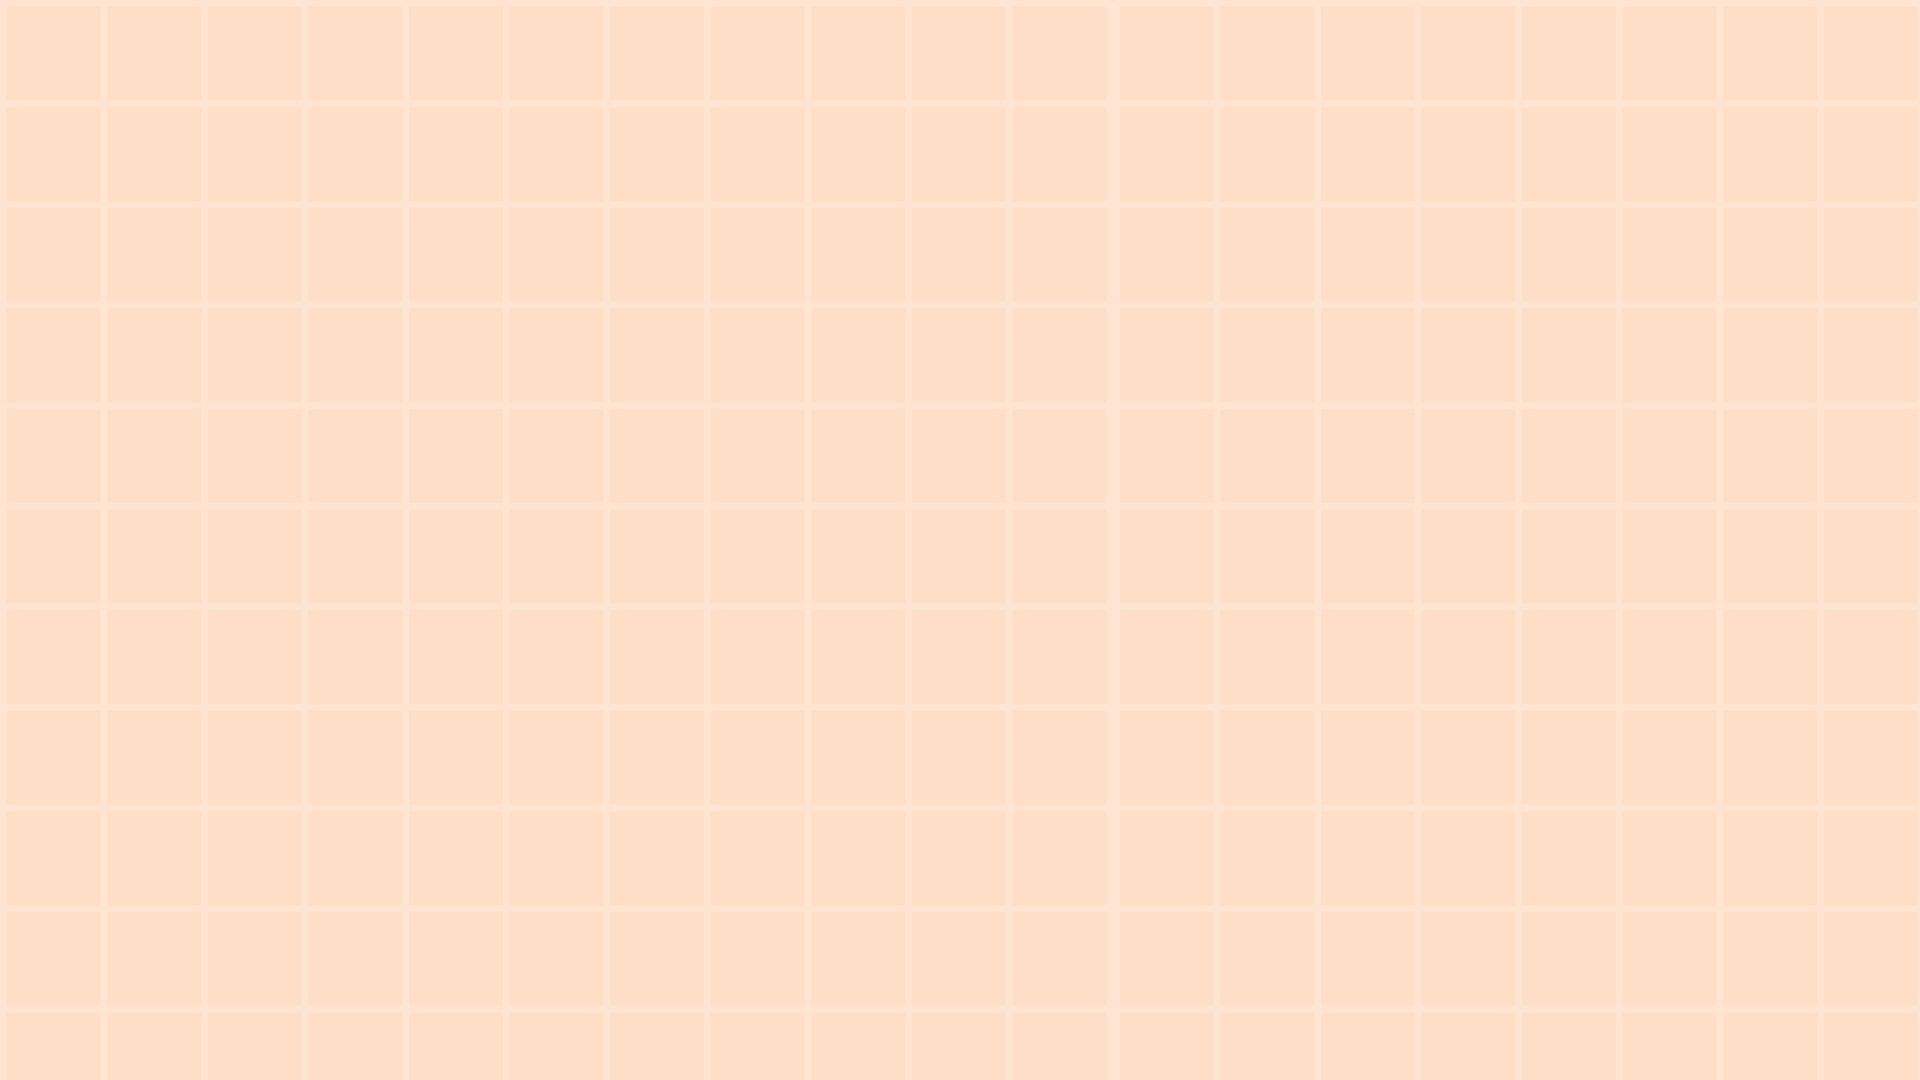
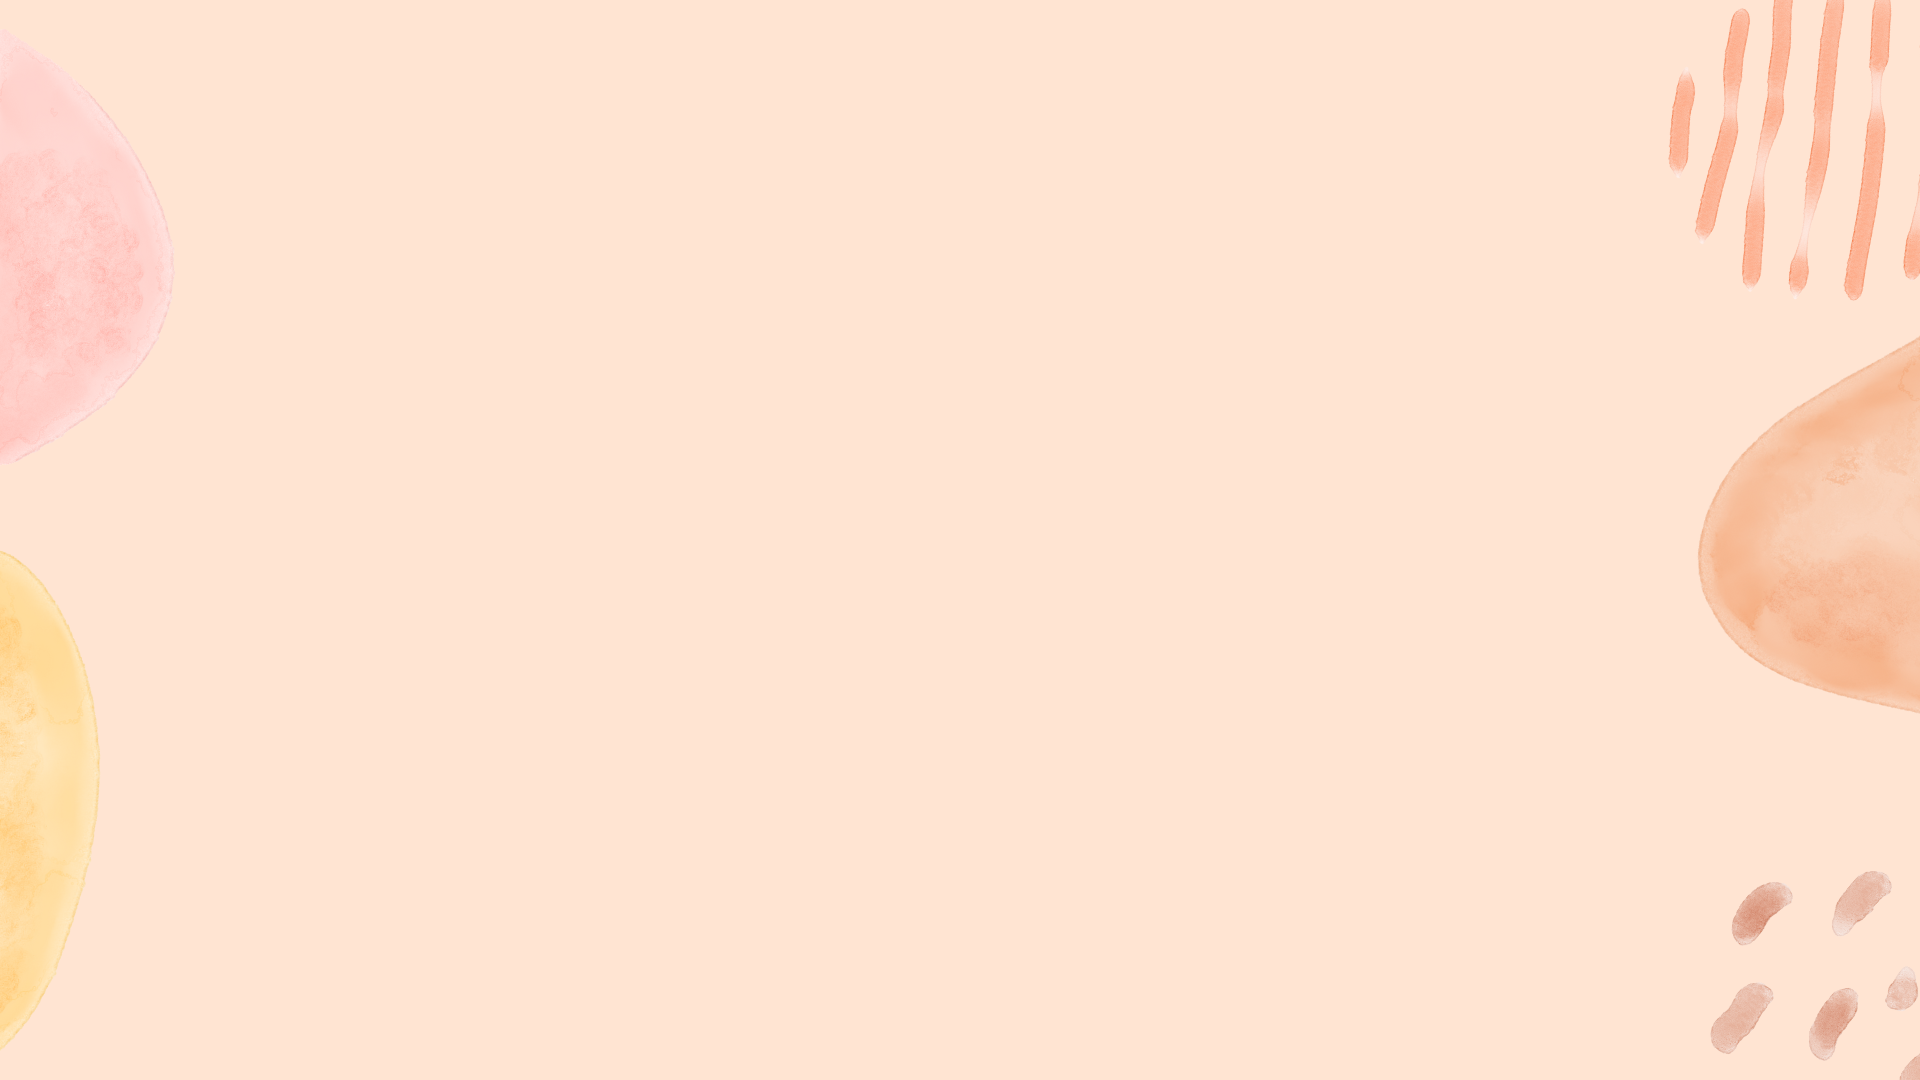
desgin done

diff --git a/About_us/aboutus.css b/About_us/aboutus.css
@@ -31,7 +31,7 @@ body
 /* Header styles */
 header 
 {
-    background: #FFD4B2;
+    background: #ffcca5;
     color: #fff;
     padding: 1rem;
     height: 120px;
@@ -57,7 +57,7 @@ header
     font-size: 20px;
     font-family: Arial, Helvetica, sans-serif;
     border: #ffefe3 solid ;
-    border-radius: 10%;
+    border-radius: 10px;
     text-decoration: none;
     padding: 5px 5px;
 }
@@ -71,8 +71,6 @@ h1
 /* background1 section styles */
 .background1 
 {
-    background-image: url(team.png);
-    background-repeat: no-repeat;
     background-size: 1530px 500px;
     text-align: center;
     padding: 50px 0;
@@ -86,27 +84,35 @@ h1
     border-radius: 50%;
     border: #FFD4B2 solid;
     border-width: 10px;
+    box-shadow: 0 4px 6px rgba(0, 0.5, 0.5, 0.5);
 }
 
 .background1 h2 
 {
     font-size: 2em;
     margin-bottom: 20px;
-    color: #FFD4B2;
+    color: #333;
 }
 
 .background1 span
 {
     font-size: 1.2em;
     margin-bottom: 15px;
-    color: #FFD4B2;
+    color: #333;
 }
+
+/*backgroud*/
+.background{
+    background-image: url(p.aboutus.png);
+    width: auto;
+    height: 100%;
+}
+
 
 /* background2 section styles */
 .background2 
 {
     padding: 50px 0;
-    background: #fff;
     text-align: center;
 }
 
@@ -123,7 +129,7 @@ h1
     border-radius: 100px;
     height: 150px;
     margin-bottom: 3%;
-
+    box-shadow: 0 4px 6px rgba(0, 0.5, 0.5, 0.5);
 }
 
 .background2 section
@@ -137,6 +143,7 @@ h1
     padding-top: 3.5%;
     font-size: 30px;
     font-family: 'Franklin Gothic Medium', 'Arial Narrow', Arial, sans-serif;
+    
 }
 
 .background2 p 
@@ -145,6 +152,45 @@ h1
    top: 20%;
    margin-left: 5%;
     margin-right:5%;
+}
+
+/*Stationery sales*/
+
+h2 {
+    margin-top: 20px;
+    color: #333;
+    text-align: center;
+}
+
+.sales-container {
+    display: flex;
+    justify-content: center;
+    margin-top: 20px;
+}
+
+.sales-item {
+    background-color: #f0f1be;
+    border-radius: 10px;
+    box-shadow: 0 4px 6px rgba(0, 0.5, 0.5, 0.5);
+    padding: 20px;
+    margin: 0 50px;
+    width: 200px;
+}
+
+.sales-item h2 {
+    color: #564e4e;
+}
+
+.sales-icon {
+    width: 80px;
+    height: 80px;
+    margin: 0 auto 10px;
+    background-size: cover;
+}
+
+.quantity, .revenue {
+    color: #666;
+    margin: 5px 0;
 }
 
 /* background3 section styles */
@@ -164,6 +210,7 @@ h1
     border-radius: 100px;
     height: 150px;
     margin-bottom: 3%;
+    box-shadow: 0 4px 6px rgba(0, 0.5, 0.5, 0.5);
 }
 
 .background3 p 
@@ -174,6 +221,7 @@ h1
     margin-left: 10%;
     margin-right:10%;
 }
+
 
 /* Footer styles */
 footer 

diff --git a/About_us/aboutus.html b/About_us/aboutus.html
@@ -7,6 +7,7 @@
     <title>About us</title>
     <link rel="stylesheet" href="aboutus.css">
 </head>
+
 <body>
     <header>
         <a id="back" href="../index.html"><b>BACK TO HOME</b></a>
@@ -18,10 +19,11 @@
     </header>
     
 
+<section class="background"> 
     <section class="background1">
         <h2>Our Group Members</h2>
         <br>
-        <div style="overflow: hidden; display: inline-block;">
+        <div style="display: flex; justify-content: center;">
             <img src="wong_xuan_ting.jpg" >
             <img src="kong_lee_ching.jpg" style="margin: 0px 100px 0px 120px;">
             <img src="lim_siew_jin.jpg" >
@@ -36,6 +38,7 @@
         <br>
     </section>
 
+    
         <div class="background2">
             <h2>Our Stationery Shop's History</h2>
             <div>
@@ -68,6 +71,34 @@
             </div>
         </div>
 
+
+         
+    <h2>Stationery Sales</h2>
+        <div class="sales-container">
+            <div class="sales-item">
+                <h2><b>Pen</b></h2>
+                <div class="sales-icon pen"></div>
+                <p class="quantity">Quantity Sold: 120</p>
+                <p class="revenue">Total Revenue: RM240</p>
+            </div>
+            <div class="sales-item">
+                <h2><a>Drawing Painting</a></h2>
+                <div class="sales-icon notebook"></div>
+                <p class="quantity">Quantity Sold: 80</p>
+                <p class="revenue">Total Revenue: RM400</p>
+            </div>
+            <div class="sales-item">
+                <h2><b>Office stationery</b></h2>
+                <div class="sales-icon pencil"></div>
+                <p class="quantity">Quantity Sold: 100</p>
+                <p class="revenue">Total Revenue: RM50</p>
+            </div>
+        </div>
+
+        <br>
+        <br>
+        <br>
+
         <section class="background3">
             <h2>Our Vision and Mission</h2>
             <div>
@@ -90,5 +121,7 @@
         </nav>
         <p>&copy; 2019-2024 OKAY Stationery Shop. All rights reserved. OKAY Comapany</p>
     </footer>
+</section>
+   
 </body>
 </html>

diff --git a/Contact_us/contact_us.css b/Contact_us/contact_us.css
@@ -5,7 +5,7 @@ body {
 }
 
 header {
-    background-color: #FFD4B2;
+    background-color: #ffcca5;
     padding: 50px;
     text-align: center;
 }
@@ -16,12 +16,12 @@ header {
     position: absolute;
     top: 10px; 
     left: 10px; 
-    color: #FFD495;
+    color: #FFD4B2;
     background-color: #fff;
     font-size: 20px;
     font-family: Arial, Helvetica, sans-serif;
     border:#ffefe3 solid ;
-    border-radius: 10%;
+    border-radius: 10px;
     text-decoration: none;
     padding: 5px 5px;
 }
@@ -54,7 +54,6 @@ header h1 {
 
 .contact-info1 {
     flex: 0 1 40%;
-
     text-align: center;
 
 }
@@ -136,6 +135,8 @@ main {
     justify-content: space-between;
 }
 
+
+
 .message{
     flex: 0 1 40%;
 }
@@ -151,9 +152,9 @@ main {
 }
 
 .message img{
-    width: 350px;
-    height: 350px;
-    margin-left: 22%;
+    width: 500px;
+    height: 500px;
+    margin-left: 14%;
 }
 
 .contact-form {
@@ -163,7 +164,7 @@ main {
     border: 1px solid #ccc;
     border-radius: 5px;
     box-shadow: 0 0 10px rgba(0, 0, 0, 0.1);
-    background-color: #DADDB1;
+    background-color: #ffcca5;
     width: 600px;
 }
 
@@ -191,8 +192,8 @@ textarea {
 }
 
 button {
-    background-color: #4CAF50;
-    color: white;
+    background-color: #ffe0c8;
+    color: #333;
     padding: 10px 20px;
     border: none;
     border-radius: 5px;
@@ -201,9 +202,17 @@ button {
 }
 
 button:hover {
-    background-color: #45a049;
+    background-color: #bf9f86;
+    color: #fff;
+    transition: 0.3s;
 }
 
+/*map*/
+
+.map {
+    text-align:center; 
+
+}
 
 
 /* Footer styles */

diff --git a/Contact_us/contact_us.html b/Contact_us/contact_us.html
@@ -59,7 +59,7 @@
             </section>
     </section>
 
-
+<section style="background-image: url(p.contact.png); background-repeat: no-repeat; background-size: 1600px 900px;">
     <main>
         <div class="message">
             <h2>Get In Touch</h2>
@@ -87,10 +87,10 @@
     </main>
 
     <div>
-        <h2 style="text-align: center"><b>Online real time address</b></h2>
+        <h2 class="map"><b>Online real time address</b></h2>
         <iframe src="https://www.google.com/maps/embed?pb=!1m18!1m12!1m3!1d3986.7366635432413!2d102.27239867547486!3d2.2520662521811188!2m3!1f0!2f0!3f0!3m2!1i1024!2i768!4f13.1!3m3!1m2!1s0x31d1e56077ee9033%3A0x32b760229ad25d0f!2sIxora%20Apartment!5e0!3m2!1sen!2smy!4v1716647187425!5m2!1sen!2smy" width="1519" height="450" style="border:0;" allowfullscreen="" loading="lazy" referrerpolicy="no-referrer-when-downgrade"></iframe>
     </div>
-
+</section>
 
 
     <footer>
